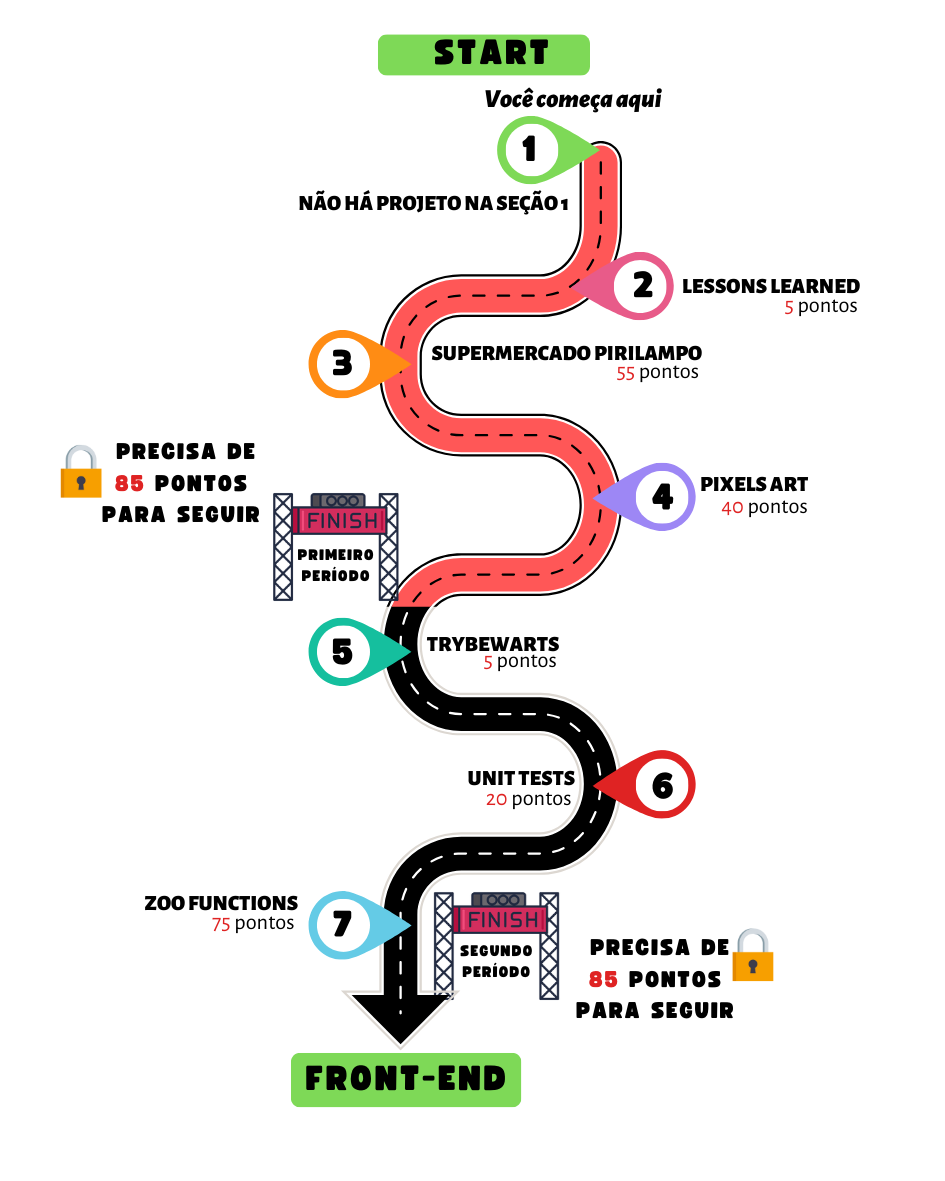
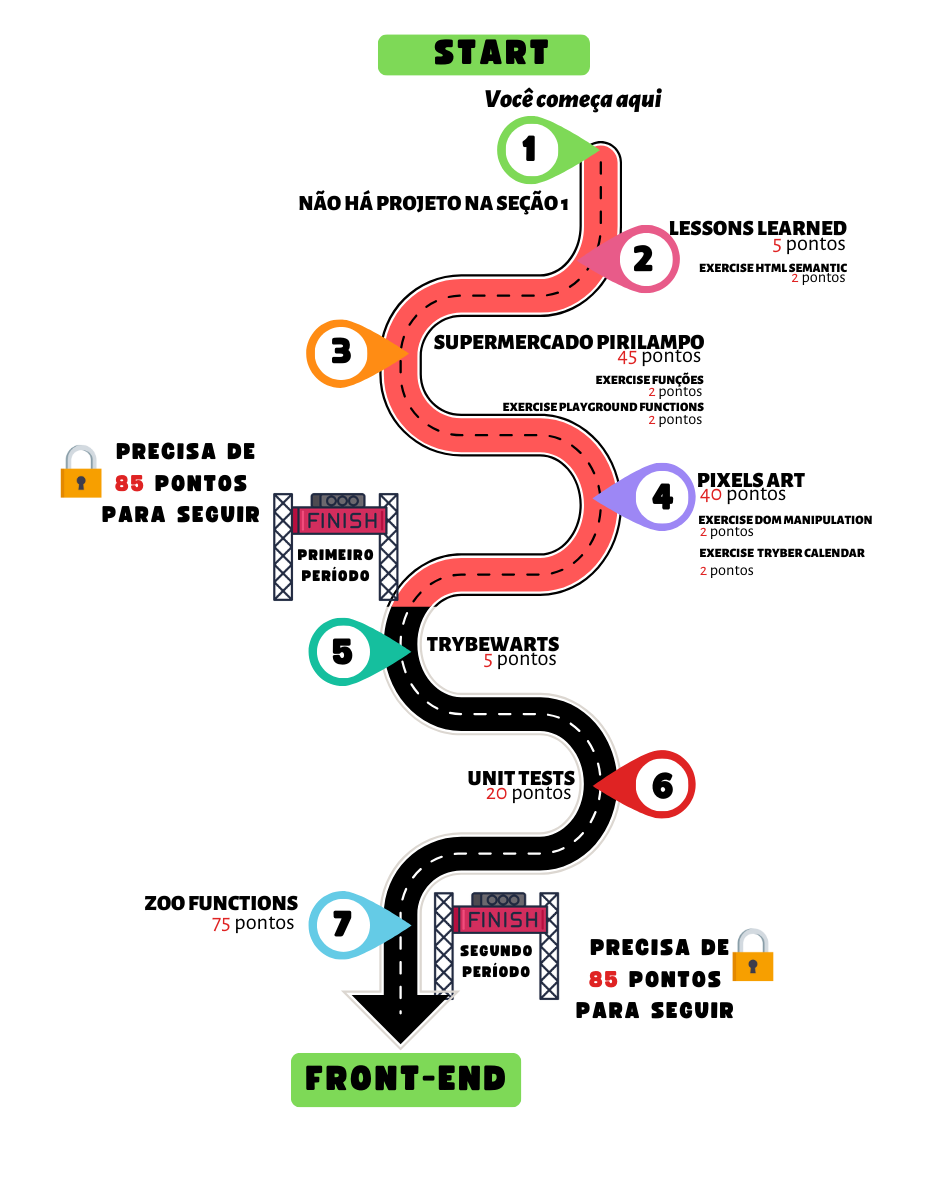
feat: ajuste projetos + exercicios

diff --git a/src/js/scripts.js b/src/js/scripts.js
@@ -305,7 +305,7 @@ const projects = [
         url: 'https://github.com/tryber/sd-038-supermercado-pirilampo',
         description: `Projeto para você construir funções utilizando JavaScript, para você praticar lógica de
         programação. Praticando if/else, laços de repetição, funções, objetos`,
-        points: 'Pontos: 55',
+        points: 'Pontos: 45',
     },
     {
         image: './assets/pixels-art.png',

diff --git a/src/css/style.css b/src/css/style.css
@@ -514,7 +514,7 @@ p {
 }
 
 .jornada-img {
-    width: 70%;
+    width: 60%;
 }
 
 @keyframes show {
